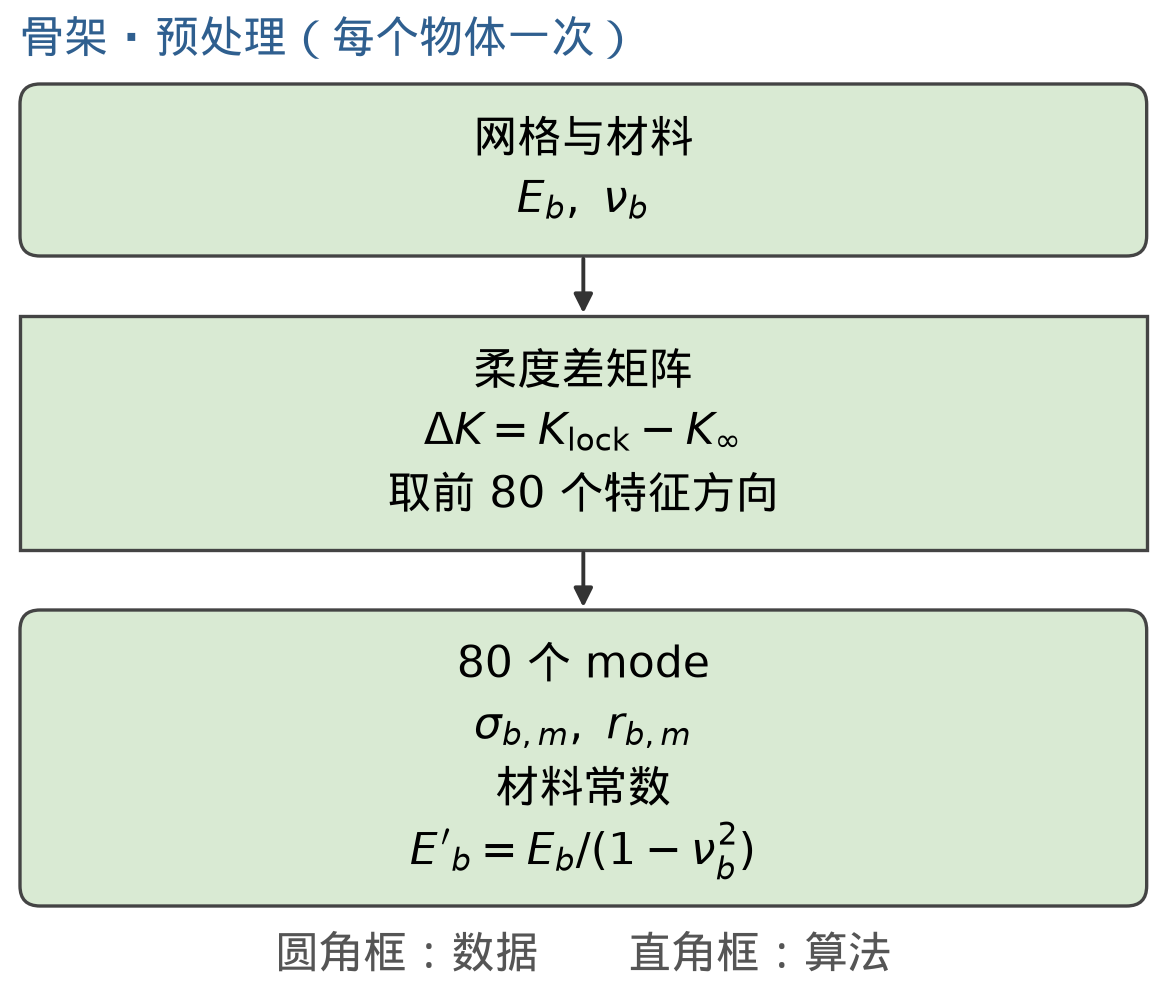
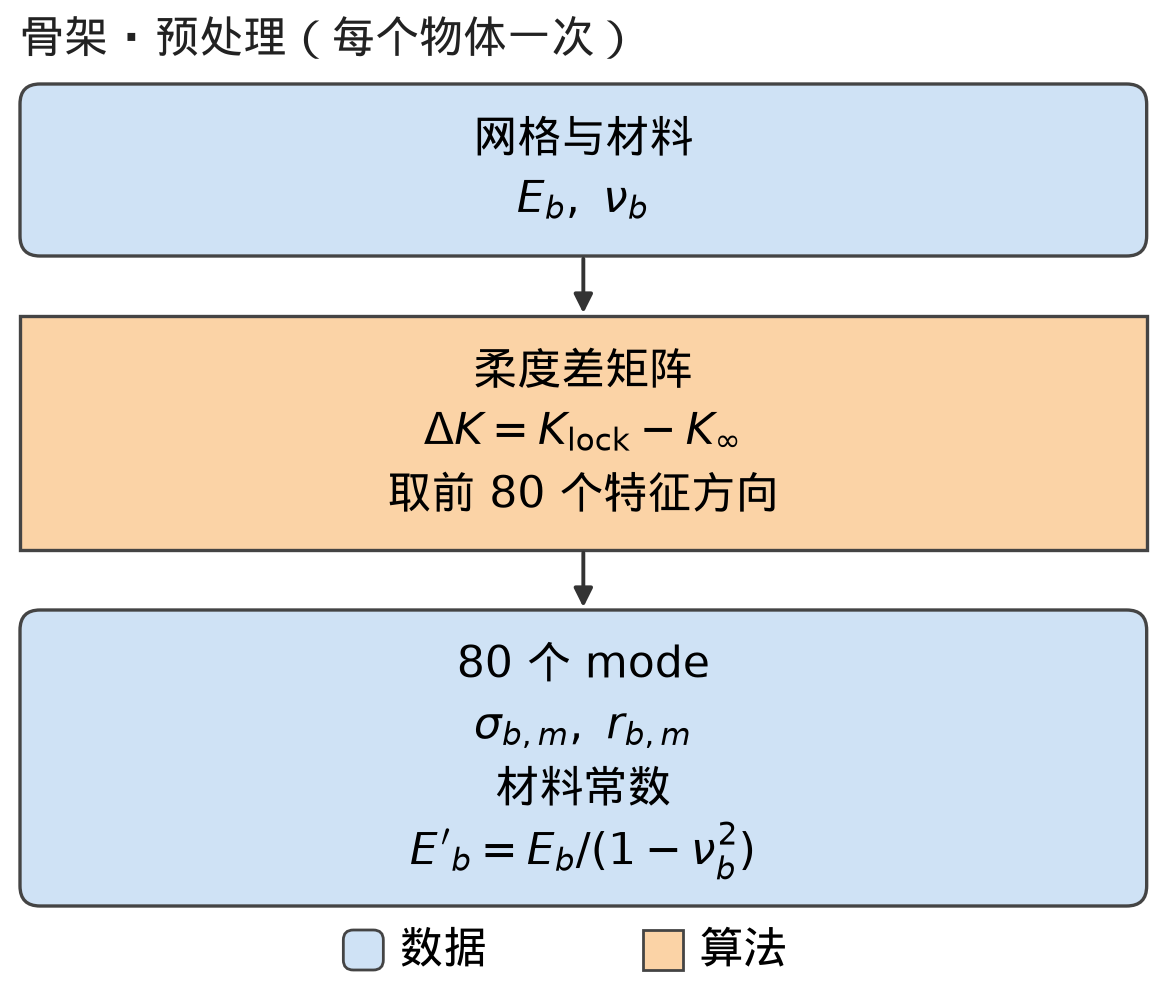
Publish week5/week7/index from meeting-draft cf182ec (html + referenced assets only; check PASS check_cf182ec, number check number_check.md)

diff --git a/week5.html b/week5.html
@@ -244,7 +244,7 @@ html.annot-on #annot-capture { display: block; }
   html.annot-fixed pre, html.annot-fixed mjx-container[display="true"] { overflow: visible; }
 }
 </style>
-<script>window.NIPC_PAGE = "79a0f4db57eb";</script>
+<script>window.NIPC_PAGE = "ae6d5d9bcee8";</script>
 <script>window.MathJax = {tex: {inlineMath: [["\\(", "\\)"]], displayMath: [["\\[", "\\]"]]}, svg: {fontCache: "global"}};</script>
 <script src="https://cdn.jsdelivr.net/npm/mathjax@3.2.2/es5/tex-svg.js" async></script>
 <a class="skip" href="#content">跳转到正文</a><div id="progress" aria-hidden="true"></div>
@@ -273,7 +273,7 @@ html.annot-on #annot-capture { display: block; }
 <p>这个式子是定义：精细模型的全部自由度拆成「粗模型的 affine 部分」和「其余部分」两块，任何位移都能唯一地写成 \(\Phi z+\Psi\xi\) ，因为 \(\Psi\) 张成的正是锁住 affine 以后剩下的空间（直接推导）；在 affine 部分固定为 \(z\) 时对其余部分求最低能量，再减去粗模型自己的能量。 \(U\ge0\) 是因为不加接触限制时取 \(\xi=0\) 可行，而只按粗状态变形就已经是无接触时能量最低的状态，加上不穿透的限制只会让最低值变高（直接推导）。这要求两物体之间无摩擦，并且精细模型的弹性能对 \(\xi\) 在 \(\xi=0\) 处取最小，即没有接触时粗状态本身就是静止状态。粗状态没有整体拉伸、剪切时 \(\Pi(\Phi z)=0\) ，而 \(\Pi\ge0\) ，这一条自动成立；粗状态带着很大的整体变形、精细模型在无接触时自己还会再动（比如屈曲）时，这一条不成立， \(U\) 可能为负。</p></section>
 <section id="w2"><h2>骨架与标准答案怎么算</h2>
 <figure style="margin:12px 0"><img src="assets/images/w5t_W1a_precompute.png" width="1166" height="990" style="width:420px;max-width:100%;height:auto" alt="" loading="lazy"></figure>
-<p><em><strong>骨架的预处理：每个物体只做一次。</strong> 由物体的网格和材料算出柔度差 \(\Delta K\) ，取前 80 个特征方向，得到这个物体的 mode 和材料常数 \(E_b^{\prime}\) ，以后每次接触直接用。圆角框是数据，直角框是算法，下面两张图相同。</em></p>
+<p><em><strong>骨架的预处理：每个物体只做一次。</strong> 由物体的网格和材料算出柔度差 \(\Delta K\) ，取前 80 个特征方向，得到这个物体的 mode 和材料常数 \(E_b^{\prime}\) ，以后每次接触直接用。</em></p>
 <figure style="margin:12px 0"><img src="assets/images/w5t_W1b_skeleton.png" width="1166" height="1222" style="width:420px;max-width:100%;height:auto" alt="" loading="lazy"></figure>
 <p><em><strong>骨架的每次接触：先量重叠，再拼柔度、解二次规划。</strong> 当前粗状态和两个物体的表面几何一起进「量重叠」，得到每一小格的 \(w_i\) 、 \(c_{b,i}\) 、 \(L_{ij}\) ；再和预处理得到的 mode、 \(E_b^{\prime}\) 一起拼出 \(C\) ，解出 \(U_{\text{skel}}\) 。</em></p>
 <figure style="margin:12px 0"><img src="assets/images/w5t_W1c_gt.png" width="1166" height="990" style="width:420px;max-width:100%;height:auto" alt="" loading="lazy"></figure>
